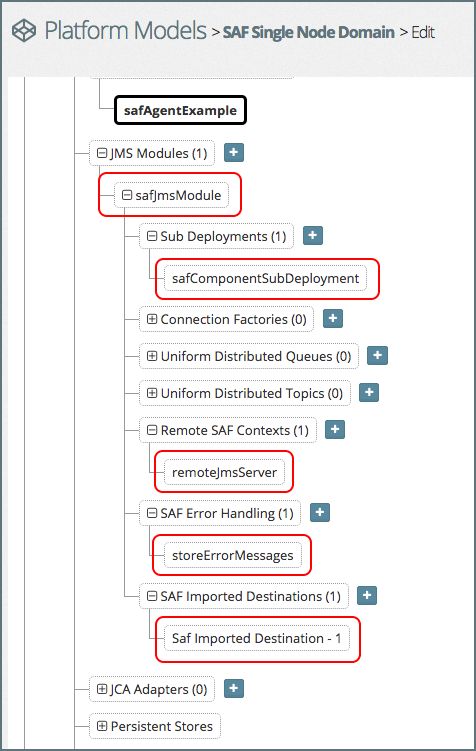
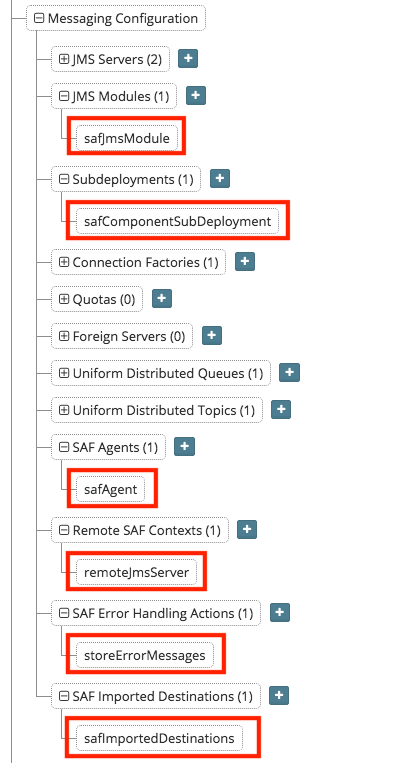
Updated SAF for Platform 2.0

Changed region(s): [[0.0, 0.0, 1.0, 1.0], [0.0874, 0.5819, 0.1165, 0.6125]]

diff --git a/platform/resources/weblogic/jms/store-and-forward/README.md b/platform/resources/weblogic/jms/store-and-forward/README.md
@@ -9,12 +9,8 @@ The following object types are supported by MyST Studio:
 * **SAF Error Handling** - which encapsulates specific behavior used to process messages in the event of an error
 * **SAF Imported Destinations** - which encapsulate the configuration for specific remote JMS queues that an SAF Agent will interact with
 
-To create SAF objects, open a blueprint or model for any configuration with components using a WebLogic Server domain (eg. Oracle Service Bus, Oracle Traffic Director) and expand the object tree for the domain under *WebLogic Domains*.
+To create SAF objects, open a blueprint or model for any configuration with components using a WebLogic Server domain (eg. Oracle Service Bus, Oracle Traffic Director) and expand the object tree for the domain under `WebLogic Domain Configuration` > `Messaging Configuration`
 
-Store and Forward Agents are found at the top level of the domain structure.
-
-![](img/exampleSafAgent.png)
-
-The remainder of the objects used to support SAF are found within the configuration of a JMS module. When configuring SAF, a sub deployment is required as part of the JMS module configuration in order to target SAF components correctly.
+When configuring SAF, a sub deployment is required as part of the JMS module configuration in order to target SAF components correctly.
 
 ![](img/exampleSafJmsModules.png)
